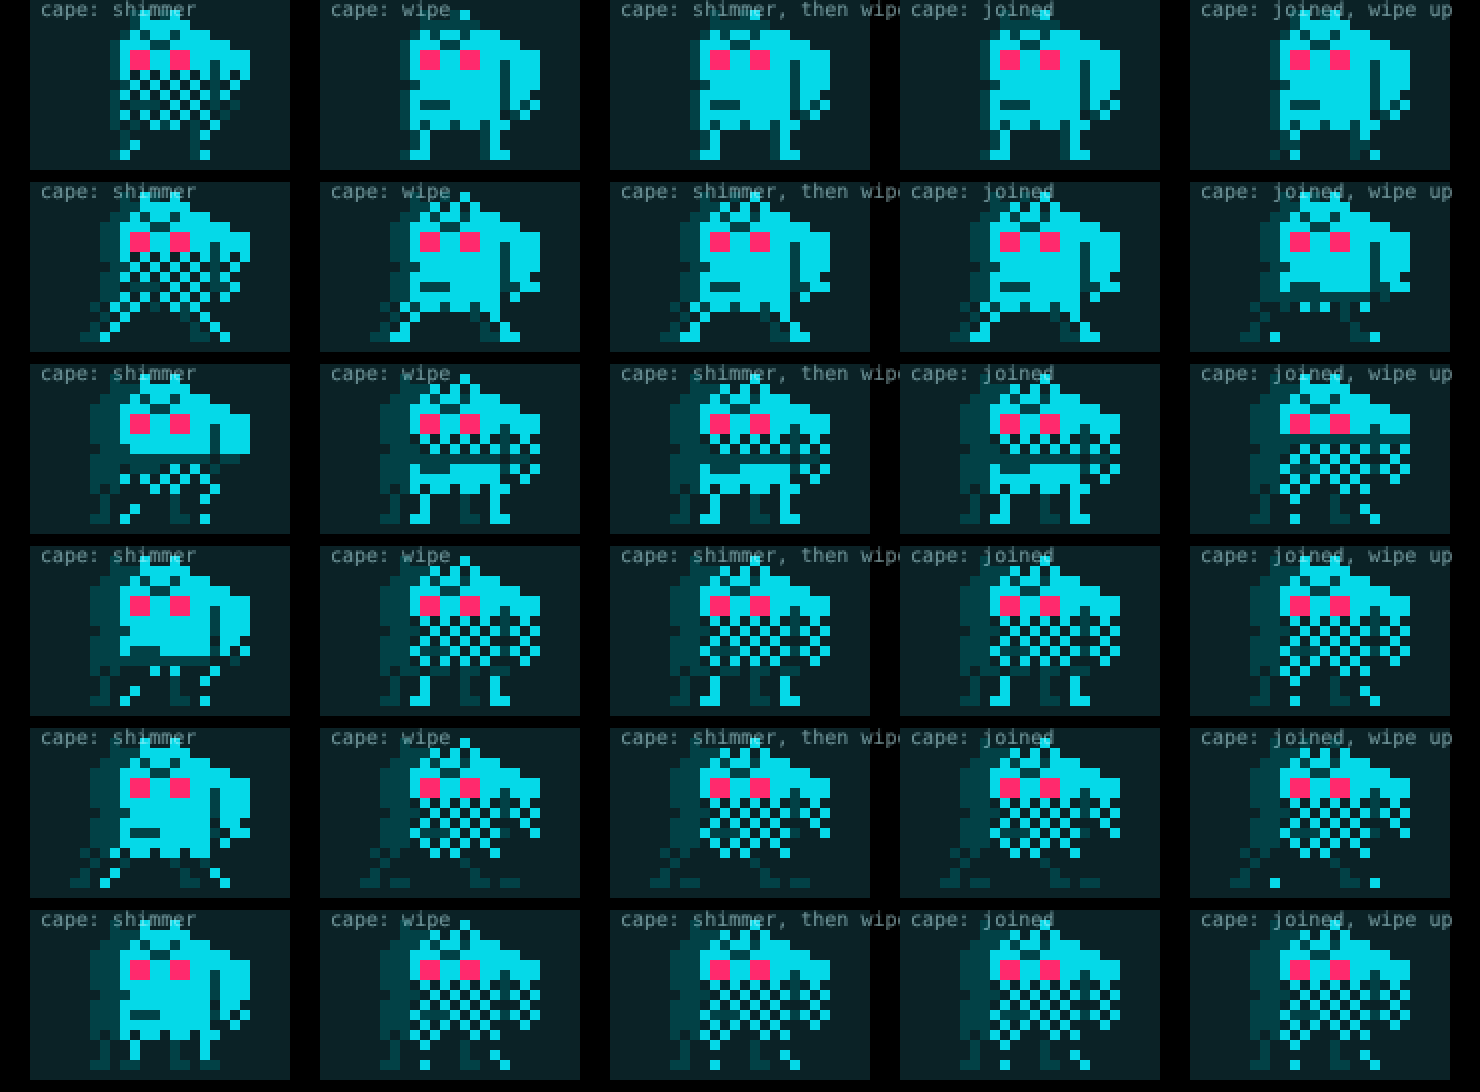
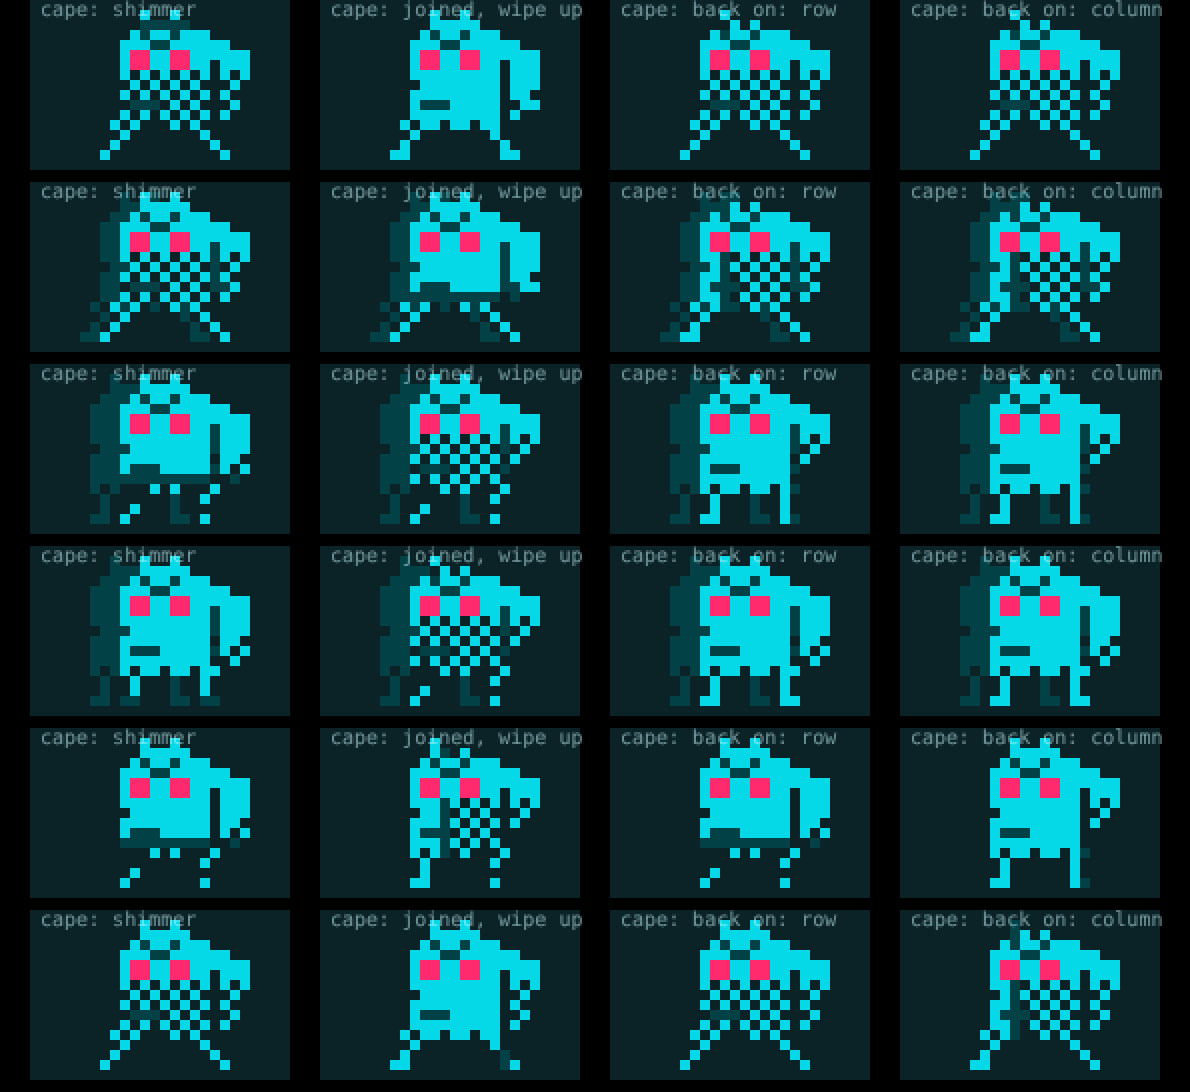
Netling 2.0 Rogue: Exile's wipe back on before the loop (two ways)
The wipe loop starts in camo, wipes it off left to right, holds plain,
then wipes it back on (a rising row, or the column returning), so it
meets the shimmer in its own timing with no jump. The wipes now use the
shimmer's checker phase (it was the reverse). Tested; shots redone.

Claude-Session: https://claude.ai/code/session_01Cs8Tn62A5tSs3mb1RKkHnQ

diff --git a/prototype/netling2/rogue-motion.js b/prototype/netling2/rogue-motion.js
@@ -164,13 +164,48 @@ export const wipeMotion = (stage, { up = false } = {}) => (sprite, anchors, { ti
         if (sprite[y][x] !== '#') continue;
         const at = x + PAD;
         if (y === row || x === col) g[y][at] = 'x';
-        else if ((full || (row !== undefined && (up ? y > row : y < row)) || (col !== undefined && x > col)) && (x + y) % 2) g[y][at] = '.';
+        else if ((full || (row !== undefined && (up ? y > row : y < row)) || (col !== undefined && x > col)) && (at + y) % 2) g[y][at] = '.'; // the shimmer's checker (padded columns), so the camo matches it
       }
     }
   }
   decoyInto(g, sprite, time, reduced, PAD, REACH[stage]);
   return out(g);
 };
+// The wipe back on (drafts 8.4h, twenty-first round): the wipe loop starts and ends in camo, as the shimmer in its own timing does, so the
+// two take turns with no offset. Step 0 full camo; 1 to 5 a dim column sweeps left to right and the body behind it comes back solid; 6
+// plain; 7 to 11 it is wiped back on: `back: 'row'` a dim row rising from the feet with the camo below it, `back: 'col'` the column
+// returning right to left with the camo behind it.
+export const wipeBackAt = (step, height, left, right, back = 'row') => {
+  if (step === 0) return { full: true };
+  if (step <= 5) return { col: Math.round(left + ((step - 1) / 4) * (right - left)), solidLeft: true };
+  if (step === 6) return {};
+  const k = (step - 7) / 4;
+  return back === 'col' ? { col: Math.round(right - k * (right - left)), camoRight: true } : { row: Math.round(height - 2 - k * (height - 2)), camoBelow: true };
+};
+export const wipeBackMotion = (stage, { back = 'row' } = {}) => (sprite, anchors, { time = 0, reduced = false } = {}) => {
+  const g = padded(sprite, PAD);
+  if (!reduced) {
+    const { row, col, full, solidLeft, camoRight, camoBelow } = wipeBackAt(stepOf(time), sprite.length, ...bodyCols(sprite), back);
+    for (let y = 0; y < sprite.length; y++) {
+      if (faceRow(anchors, y)) continue;
+      for (let x = 0; x < sprite[0].length; x++) {
+        if (sprite[y][x] !== '#') continue;
+        const at = x + PAD;
+        if (y === row || x === col) g[y][at] = 'x';
+        else if ((full || (solidLeft && x > col) || (camoRight && x > col) || (camoBelow && y > row)) && (at + y) % 2) g[y][at] = '.'; // the shimmer's checker (padded columns), so the camo matches it
+      }
+    }
+  }
+  decoyInto(g, sprite, time, reduced, PAD, REACH[stage]);
+  return out(g);
+};
+// The shimmer (its own timing) and the wipe back on, taking turns by loop.
+export const scanWipeBackMotion = (stage, { back = 'row' } = {}) => {
+  const scan = scanMotion(stage);
+  const wipe = wipeBackMotion(stage, { back });
+  return (sprite, anchors, opts = {}) => (!opts.reduced && Math.floor(Math.max(0, opts.time ?? 0) / (STEPS * STEP_MS)) % 2 ? wipe : scan)(sprite, anchors, opts);
+};
+
 // The shimmer and the wipe taking turns by loop (the shimmer first), as the decoy takes turns by side. `joined` starts the shimmer half a
 // loop late (its band at the feet, the body plain), so it rises into the camo and comes back down to plain: it then starts and ends where
 // the wipe does, and neither hand-over jumps (without it the shimmer ends in camo and the wipe starts plain).

diff --git a/prototype/netling2/rogue.test.js b/prototype/netling2/rogue.test.js
@@ -470,6 +470,37 @@ test('options, Exile\'s second pass (8.4h): the wipe keeps the marks and the fac
   }
 });
 
+test('options, Exile\'s wipe back on (8.4h): starts and ends in camo, plain at step 6, keeps the marks, and meets the shimmer in its own timing without a jump', async () => {
+  const { EXILE_OPTIONS } = await import('./rogue-options.js');
+  const { wipeBackMotion, scanWipeBackMotion, scanMotion } = await import('./rogue-motion.js');
+  const f = { ...set.rogueElderDodge, a: EXILE_OPTIONS.cape.a };
+  const w = f.a[0].length;
+  const { eyeRow } = f.anchors.a;
+  const loop = STEPS * STEP_MS;
+  const strip = (g) => g.map((r) => r.slice(PAD, PAD + w));
+  const holes = (g) => f.a.reduce((n, r, y) => n + [...r].filter((c, x) => c === '#' && g[y][x] === '.').length, 0);
+  const changed = (p, q) => f.a.reduce((n, r, y) => n + [...r].filter((c, x) => c === '#' && p[y][x] !== q[y][x]).length, 0);
+  for (const back of ['row', 'col']) {
+    const m = wipeBackMotion('elder', { back });
+    const at = (s) => strip(m(f.a, f.anchors.a, { time: s * STEP_MS }));
+    for (let s = 0; s < STEPS; s++) at(s).forEach((r, y) => [...r].forEach((c, x) => {
+      const was = f.a[y][x];
+      if (was === 'o' || was === 'x' || (y >= eyeRow - 2 && y <= eyeRow + 1)) assert.ok(c === was || (was === '.' && c === 'x'), `${back} step ${s}: mark or face cell ${x},${y}`);
+      else if (was === '#') assert.ok(c === '#' || c === 'x' || c === '.', `${back} step ${s}: ${x},${y}`);
+    }));
+    assert.equal(holes(at(6)), 0, `${back}: plain at step 6`);
+    assert.ok(holes(at(0)) > 20 && holes(at(11)) > 20, `${back}: camo at both ends`);
+    assert.ok(holes(at(3)) < holes(at(1)) && holes(at(9)) > holes(at(7)), `${back}: wiped off, then back on`);
+    const both = scanWipeBackMotion('elder', { back });
+    const g = (t) => strip(both(f.a, f.anchors.a, { time: t }));
+    const inside = Math.max(...Array.from({ length: 11 }, (_, i) => changed(g(i * STEP_MS), g((i + 1) * STEP_MS))));
+    for (const t of [loop, 2 * loop]) assert.ok(changed(g(t - STEP_MS), g(t)) <= inside, `${back}: the hand-over at ${t} ms`);
+    assert.deepEqual(both(f.a, f.anchors.a, { time: 3 * STEP_MS }), scanMotion('elder')(f.a, f.anchors.a, { time: 3 * STEP_MS }), `${back}: the shimmer in its own timing`);
+    const calm = new Set([0, 4, 9].map((s) => m(f.a, f.anchors.a, { time: s * STEP_MS, reduced: true }).join('\n')));
+    assert.equal(calm.size, 1, `${back}: calm`);
+  }
+});
+
 test('options, second round: the still camo is the same in both frames, so even head and body keeps the head rows identical', async () => {
   const { STATIC_CAMO_OPTIONS } = await import('./rogue-options.js');
   for (const f of [set.rogueAdultTune, set.rogueElderTune]) {

diff --git a/prototype/netling2/rogue-options.html b/prototype/netling2/rogue-options.html
@@ -15,7 +15,7 @@ import { PALETTES } from '../../src/sim.js';
 import { wetwareForms } from './wetware-models.js';
 import { rogueForms } from './rogue-models.js';
 import { fadePulse, bigDecoy, EXILE_OPTIONS } from './rogue-options.js';
-import { bigDecoyMotion, scanMotion, wipeMotion, scanWipeMotion } from './rogue-motion.js';
+import { bigDecoyMotion, scanMotion, scanWipeMotion, scanWipeBackMotion } from './rogue-motion.js';
 
 const hash = new URLSearchParams(location.hash.slice(1));
 const SC = Number(hash.get('scale') ?? 5);
@@ -72,12 +72,11 @@ function draw(now) {
   cell(col(0), ye, skip.motion(skip[frame], skip.anchors.a, { time }), 'Skip');
   cell(col(1), ye, exile.motion(exile[frame], exile.anchors.a, { time }), 'Exile now');
   Object.values(EXILE_OPTIONS).forEach((o, j) => cell(col(2 + j), ye, shimmer(o[frame], exile.anchors.a, { time }), `Exile: ${o.name}`));
-  // The cape with a second camo pass (drafts 8.4h): the shimmer alone, the wipe alone (down to camo, back in left to right), and the two
-  // taking turns by loop, and the same joined (the shimmer half a loop late, so neither hand-over jumps), and joined with the wipe's first sweep
-  // running up.
+  // The cape with a second camo pass (drafts 8.4h): the shimmer alone, the last pick (joined, the wipe going up), and the wipe back on
+  // (the wipe loop starts and ends in camo, so the shimmer keeps its own timing): back on by the row rising, or by the column returning.
   const yw = ye + ROW;
   const cape = EXILE_OPTIONS.cape;
-  [['shimmer', shimmer], ['wipe', wipeMotion('elder')], ['shimmer, then wipe', scanWipeMotion('elder')], ['joined', scanWipeMotion('elder', { joined: true })], ['joined, wipe up', scanWipeMotion('elder', { joined: true, up: true })]]
+  [['shimmer', shimmer], ['joined, wipe up', scanWipeMotion('elder', { joined: true, up: true })], ['back on: row', scanWipeBackMotion('elder', { back: 'row' })], ['back on: column', scanWipeBackMotion('elder', { back: 'col' })]]
     .forEach(([label, m], j) => cell(col(j), yw, m(cape[frame], exile.anchors.a, { time }), `cape: ${label}`));
   const y = yw + ROW;
   cell(col(0), y, frame === 'a' ? blank.a : blank.b, 'Blank (reference)');

diff --git a/docs/NETLING_2_ROGUE_DRAFTS.md b/docs/NETLING_2_ROGUE_DRAFTS.md
@@ -466,6 +466,8 @@ Drawn as `wipeMotion` in `rogue-motion.js` (an option, not registered): the same
 
 **Twentieth round (maintainer: "it's getting better; show me the first sweep reversed").** Drawn as **joined, wipe up** (`scanWipeMotion(stage, { joined: true, up: true })`; `wipeMotion(stage, { up: true })`): the wipe's first sweep runs from the feet to the hood with the camo going on below the row, then the same full-camo step and the same column left to right. The hand-overs stay as smooth as joined (tested). On the page and the GIF it is the fifth column.
 
+**Twenty-first round (maintainer: can it wipe back on before it loops again).** Drawn as **the wipe back on** (`wipeBackMotion(stage, { back })`, taken in turns with the shimmer by `scanWipeBackMotion`): the wipe loop now starts in full camo, a dim column sweeps left to right wiping it off (steps 1 to 5), one plain step (6), then it is wiped back on (7 to 11) and ends in camo. Two ways back on: **row**, a dim row rising from the feet with the camo below it; **column**, the column returning right to left with the camo behind it. Since the shimmer in its own timing also starts and ends in camo, the turns meet with no half-loop offset (hand-overs 4 and 7 cells for row, 4 and 12 for column; tested). A fix on the way: the wipes' checker was the shimmer's in reverse (the shimmer counts padded columns, three of them, odd), so the two camos were opposite patterns; both wipes now use the shimmer's checker. The page row and the GIF now show: the shimmer alone, joined with the wipe up (the last pick), back on by row, back on by column; the still is the wipe loop's even steps (4.8 s to 8.8 s).
+
 Shown on `rogue-options.html` (the row under the Exile options: the cape with the shimmer, the wipe, the two taking turns, the same joined, and joined with the wipe going up), `docs/netling2-prototypes/shots/rogue-exile-wipe.png` (the wipe loop's first six steps, 5.2 s to 7.2 s, 0.4 s apart: the first sweep down in columns 2 to 4, up in column 5) and `rogue-exile-wipe.gif` (9.6 s, both loops, the time and loop printed on each frame).
 
 ### 8.5 Ids and the Dex
